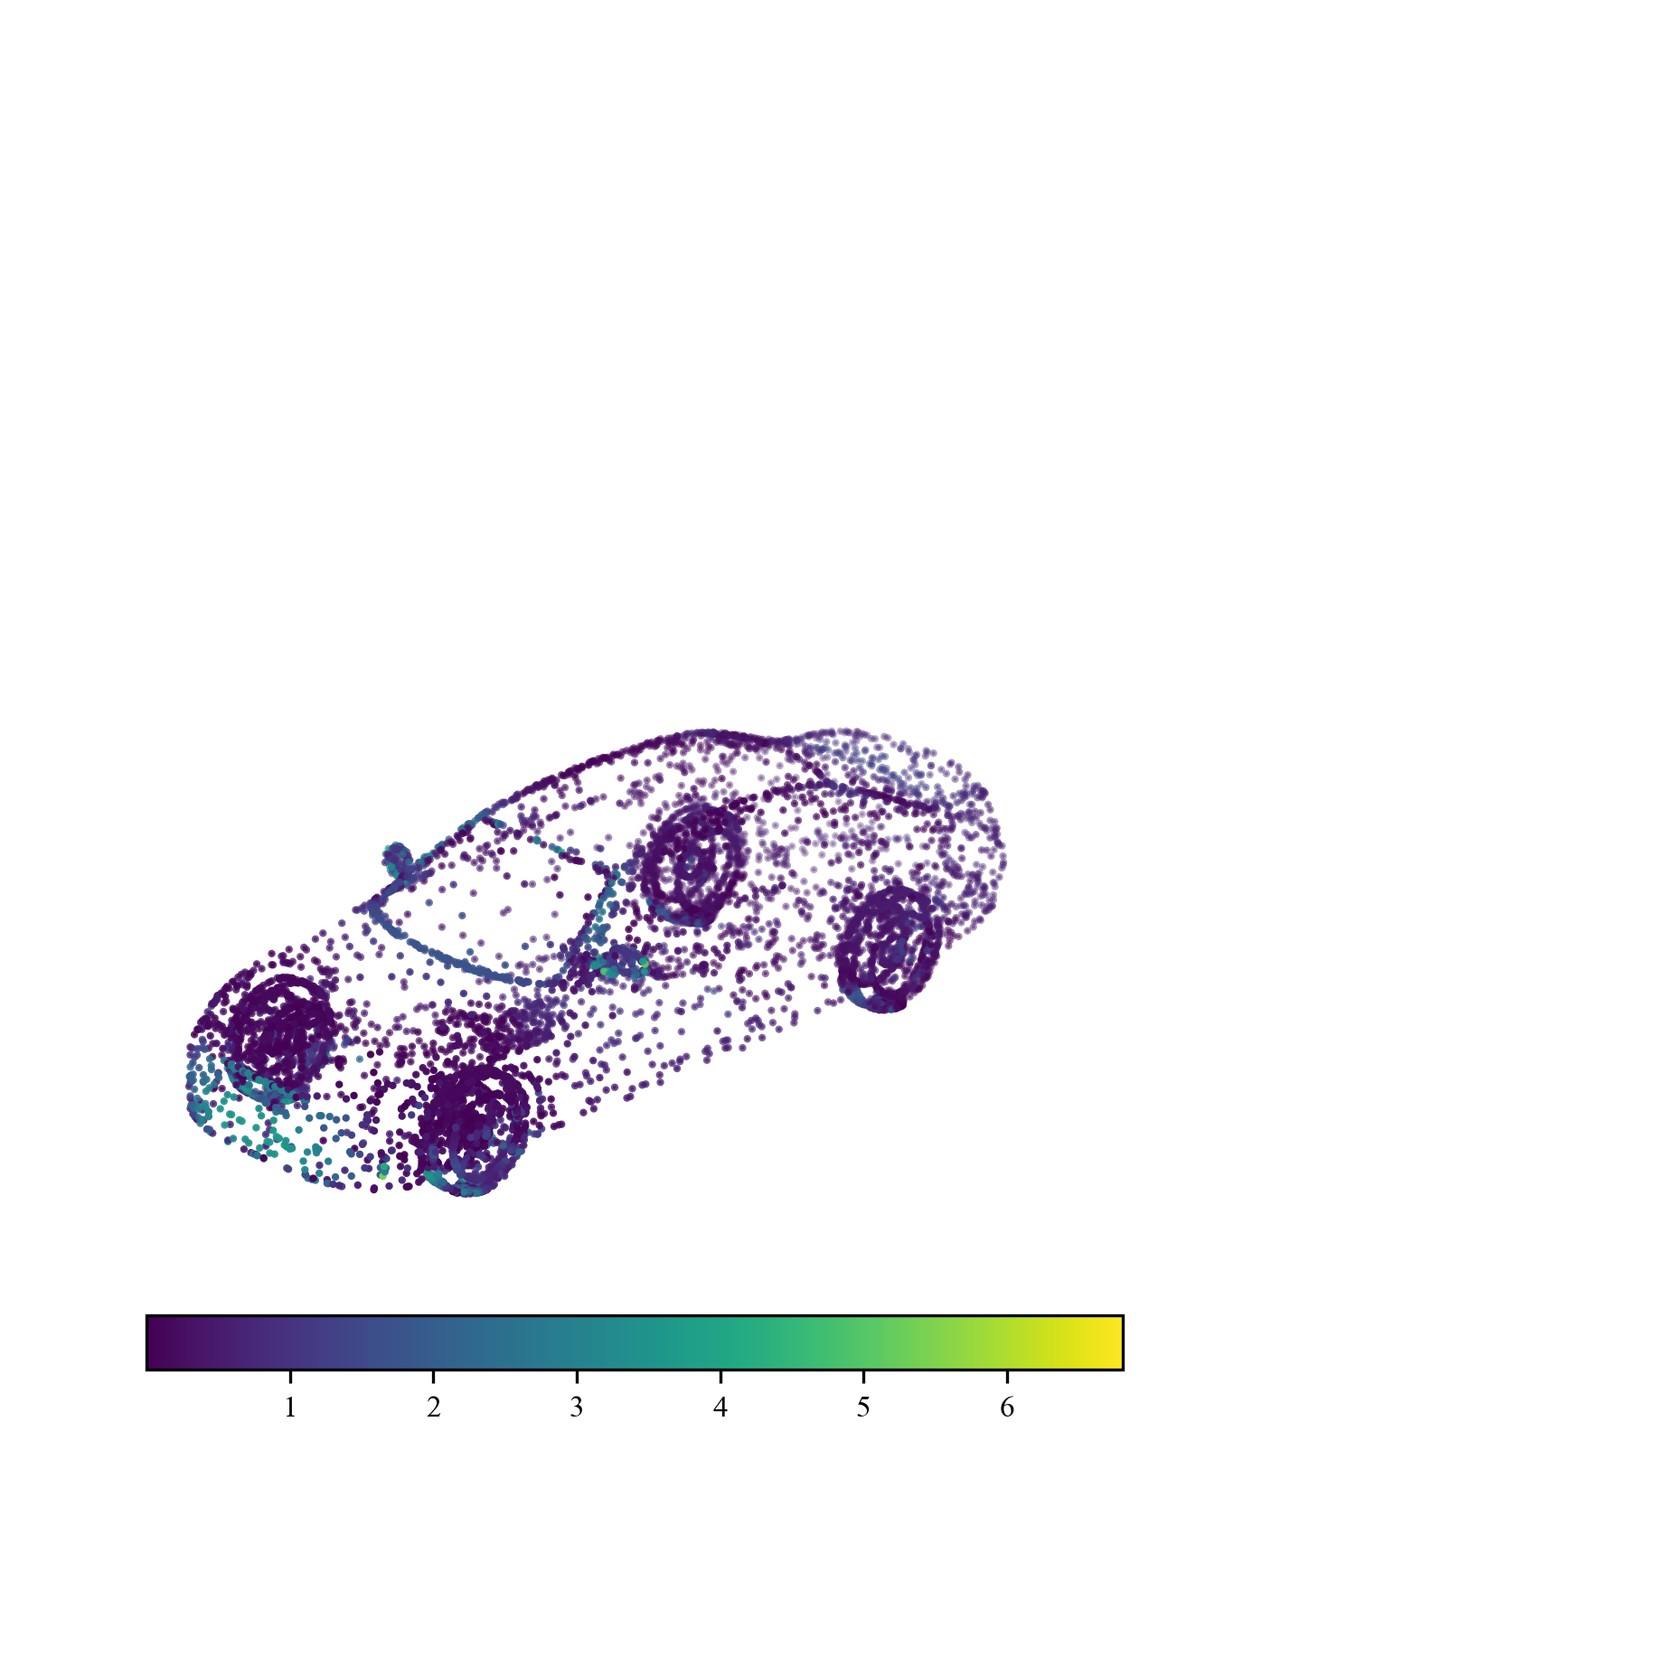
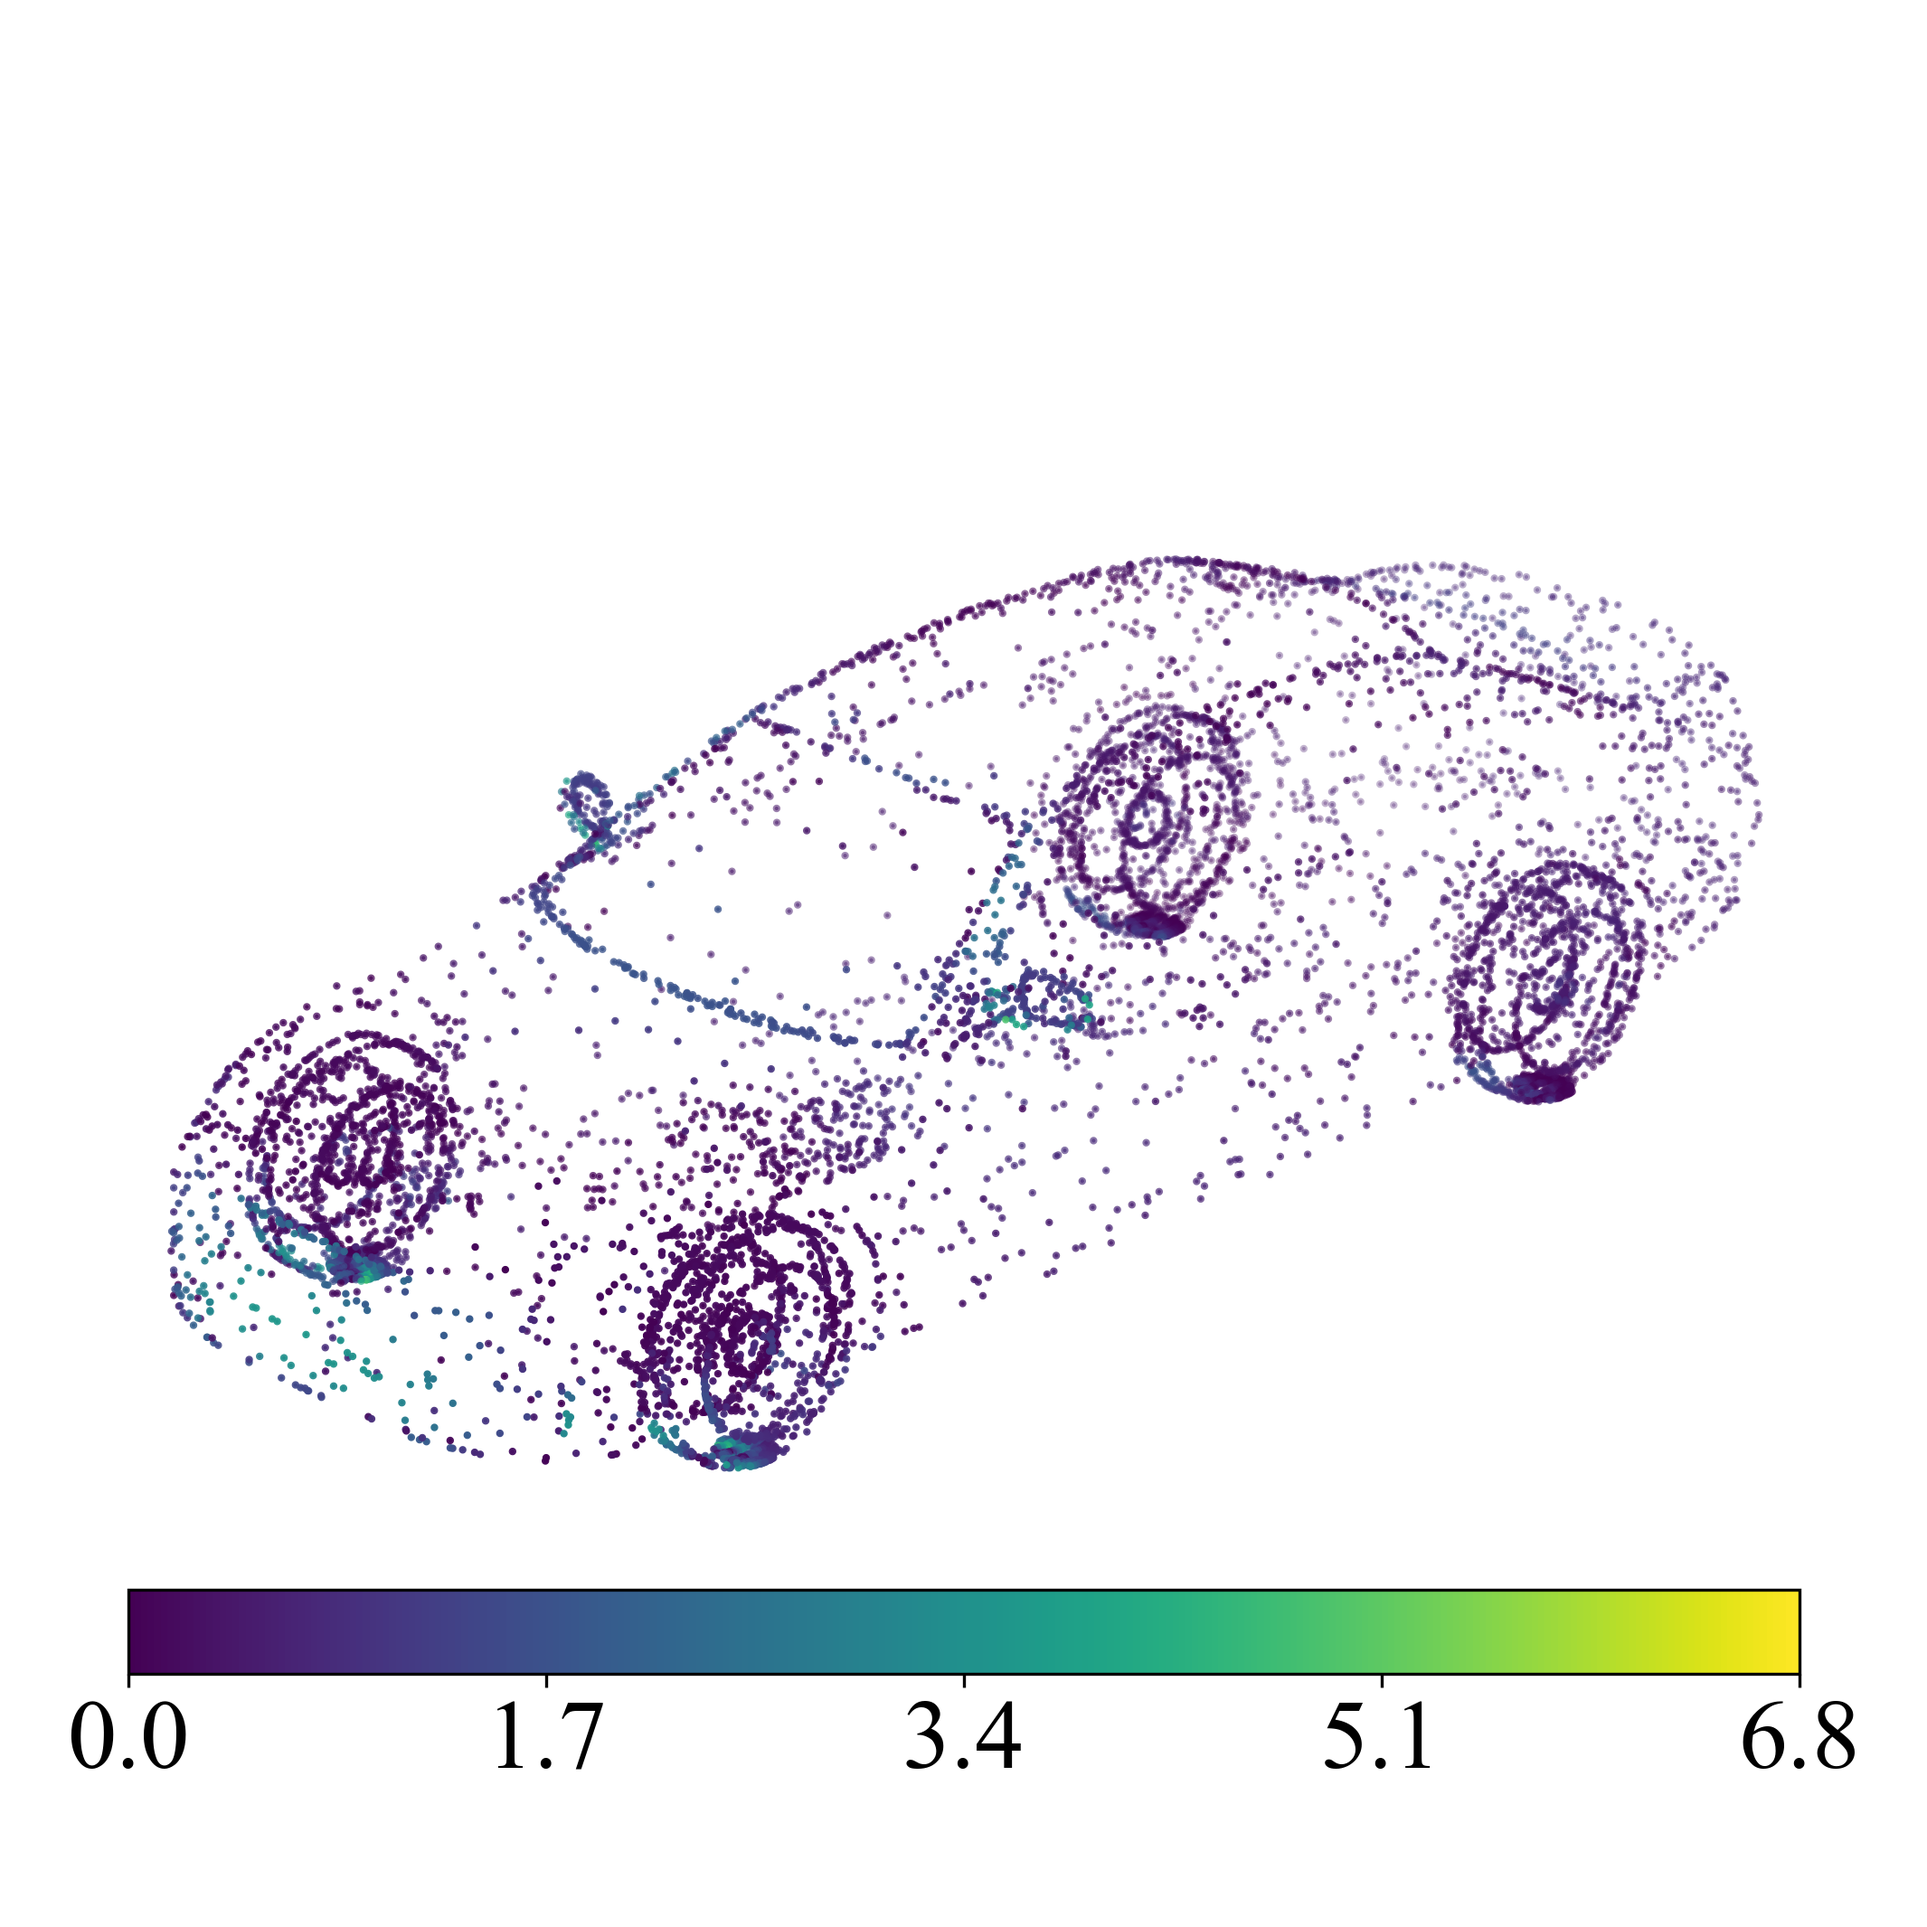
Rope Updare

Changed region(s): [[0.0307, 0.2767, 0.9838, 0.9223], [0.6149, 0.5841, 0.6456, 0.6149]]

diff --git a/RopeTransolver/utils_RPTO.py b/RopeTransolver/utils_RPTO.py
@@ -3,6 +3,7 @@ import matplotlib.pyplot as plt
 from mpl_toolkits.mplot3d import Axes3D  # noqa: F401
 from matplotlib.tri import Triangulation
 from mpl_toolkits.axes_grid1 import make_axes_locatable
+from matplotlib.ticker import FormatStrFormatter
 
 def plot_car_ShapeNet_pressure(
     size,
@@ -206,7 +207,7 @@ def plot_car_ShapeNet_pressure(
     print("Saved focused point cloud images (car-centered) with tight colorbar.")
 
 
-def plot_car_velocity(
+def plot_car_DrivAerML_velocity(
     size,      # 速度场空间位置，用于裁剪和固定坐标轴比例 (N_s,3) 或 (1,N_s,3)
     x,         # y/y_hat 的空间位置 (1,N,3) 或 (N,3)
     y,         # 标量值 (1,N,1) 或 (N,1)
@@ -298,112 +299,16 @@ def plot_car_velocity(
         ax.view_init(elev=elev, azim=azim)
 
         cbar = fig.colorbar(sc, ax=ax, orientation='horizontal', pad=colorbar_pad, fraction=0.05)
+        # ===== 手动设置 5 个刻度 =====
+        if vmin is not None and vmax is not None:
+            ticks = np.linspace(vmin, vmax, 5)
+            cbar.set_ticks(ticks)
+        else:
+            # 对于 error（没有固定范围），用当前数据范围
+            ticks = np.linspace(values.min(), values.max(), 5)
+            cbar.set_ticks(ticks)
         cbar.ax.tick_params(labelsize=colorbar_fontsize)
-        plt.savefig(filename, dpi=300, bbox_inches='tight', pad_inches=0.01)
-        plt.close(fig)
-
-    vmin = y_true.min()
-    vmax = y_true.max()
-    draw(y_true, f"{save_path}_true.png", vmin, vmax)
-    draw(y_pred, f"{save_path}_pred.png", vmin, vmax)
-    draw(abs_err, f"{save_path}_abs_error.png", None, None)
-    print("Saved point cloud images with focus-based axes (car proportion preserved).")
-
-def plot_car_pressure(
-    size,      # 速度场空间位置，用于裁剪和固定坐标轴比例 (N_s,3) 或 (1,N_s,3)
-    x,         # y/y_hat 的空间位置 (1,N,3) 或 (N,3)
-    y,         # 标量值 (1,N,1) 或 (N,1)
-    y_hat,     # 标量值 (1,N,1) 或 (N,1)
-    save_path="fig",
-    figsize=(8,6),
-    point_size=1,
-    colorbar_pad=-0.2,
-    colorbar_fontsize=6,
-    elev=25,
-    azim=-135,
-    focus_method="percentile",  # "percentile" | "voxel" | "surface" | None
-    lower_pct=1.0,
-    upper_pct=99.0,
-    voxel_grid=50,
-    focus_radius_scale=0.5,
-    surface_idx=None,
-    downsample_farfield=None,
-):
-    # ======================
-    # 全局字体：Times New Roman
-    # ======================
-    plt.rcParams["font.family"] = "Times New Roman"
-    plt.rcParams["mathtext.fontset"] = "stix"
-    plt.rcParams["axes.unicode_minus"] = False
-
-    # --- 处理输入维度 ---
-    if size.ndim == 3 and size.shape[0]==1:
-        size = size[0]
-    if x.ndim == 3 and x.shape[0]==1:
-        coords = x[0]
-    else:
-        coords = x
-    if y.ndim == 3 and y.shape[0]==1:
-        y_true = y[0].reshape(-1)
-    else:
-        y_true = y.reshape(-1)
-    if y_hat.ndim == 3 and y_hat.shape[0]==1:
-        y_pred = y_hat[0].reshape(-1)
-    else:
-        y_pred = y_hat.reshape(-1)
-    abs_err = np.abs(y_true - y_pred)
-
-    # --- focus_method 裁剪 ---
-    Npts = size.shape[0]
-    mask_keep = np.ones(Npts, dtype=bool)
-    if focus_method == "percentile":
-        low = np.percentile(size, lower_pct, axis=0)
-        high = np.percentile(size, upper_pct, axis=0)
-        for d in range(3):
-            mask_keep &= (size[:,d]>=low[d]) & (size[:,d]<=high[d])
-    elif focus_method == "voxel":
-        H, edges = np.histogramdd(size, bins=[voxel_grid]*3)
-        max_idx = np.unravel_index(np.argmax(H), H.shape)
-        centers = [0.5*(edges[d][max_idx[d]]+edges[d][max_idx[d]+1]) for d in range(3)]
-        focus_center = np.array(centers)
-        radius = focus_radius_scale * np.max(size.max(axis=0)-size.min(axis=0))
-        mask_keep = np.linalg.norm(size - focus_center[None,:], axis=1)<=radius
-    elif focus_method == "surface":
-        if surface_idx is None:
-            raise ValueError("surface_idx must be provided for surface focus")
-        surface_coords = size[surface_idx]
-        center = surface_coords.mean(axis=0)
-        radius = focus_radius_scale * np.max(surface_coords.max(axis=0)-surface_coords.min(axis=0))
-        mask_keep = np.linalg.norm(size - center[None,:], axis=1)<=radius
-    elif focus_method is None:
-        mask_keep = np.ones(Npts, dtype=bool)
-    else:
-        raise ValueError(f"Unknown focus_method: {focus_method}")
-
-    # 用裁剪后的速度场范围固定坐标轴
-    size_focus = size[mask_keep]
-    xyz_range = size_focus.max(axis=0) - size_focus.min(axis=0)
-    xyz_min = size_focus.min(axis=0)
-    xyz_max = size_focus.max(axis=0)
-
-    # --- 绘图函数 ---
-    def draw(values, filename, vmin=None, vmax=None):
-        fig = plt.figure(figsize=figsize)
-        ax = fig.add_subplot(111, projection='3d')
-
-        sc = ax.scatter(coords[:,0], coords[:,1], coords[:,2],
-                        c=values, s=point_size, vmin=vmin, vmax=vmax)
-        ax.set_axis_off()
-        ax.set_box_aspect(xyz_range)
-        ax.set_xlim(xyz_min[0], xyz_max[0])
-        ax.set_ylim(xyz_min[1], xyz_max[1])
-        ax.set_zlim(xyz_min[2], xyz_max[2])
-        ax.view_init(elev=elev, azim=azim)
-        
-        cbar_ax = fig.add_axes([0.3, 0.25, 0.3, 0.025])  # 可以调整 left, bottom, width, height
-        cbar = fig.colorbar(sc, cax=cbar_ax, orientation='horizontal', pad=colorbar_pad, fraction=0.05)
-        cbar.ax.tick_params(labelsize=colorbar_fontsize)
-        
+        cbar.ax.xaxis.set_major_formatter(FormatStrFormatter('%.1f'))
         plt.savefig(filename, dpi=300, bbox_inches='tight', pad_inches=0.01)
         plt.close(fig)
 

diff --git a/RopeTransolver/plt.py b/RopeTransolver/plt.py
@@ -1,11 +1,11 @@
 import numpy as np
-from utils_RPTO import plot_car_pressure, plot_car_velocity
+from utils_RPTO import plot_car_DrivAerML_velocity 
 import os
 
-size=np.load("/Users/zhangbojun/ML_Turbulent/RopeTransolver/data/velocity/x.npy")
-x = np.load("/Users/zhangbojun/ML_Turbulent/RopeTransolver/data/velocity/x.npy")
-y = np.load("/Users/zhangbojun/ML_Turbulent/RopeTransolver/data/velocity/y.npy")
-y_hat = np.load("/Users/zhangbojun/ML_Turbulent/RopeTransolver/data/velocity/y_hat.npy")
+size=np.load("/Users/zhangbojun/ML_Turbulent/RopeTransolver/data_DrivAerML/pressure/x.npy")
+x = np.load("/Users/zhangbojun/ML_Turbulent/RopeTransolver/data_DrivAerML/pressure/x.npy")
+y = np.load("/Users/zhangbojun/ML_Turbulent/RopeTransolver/data_DrivAerML/pressure/y.npy")
+y_hat = np.load("/Users/zhangbojun/ML_Turbulent/RopeTransolver/data_DrivAerML/pressure/y_hat.npy")
 
 size = size[0]
 x = x[0]       # (10000,3)
@@ -17,13 +17,13 @@ print(x.shape)
 print(y.shape)
 print(y_hat.shape)
 
-figure_path = "/Users/zhangbojun/ML_Turbulent/RopeTransolver/fig/velocity/"
-plot_car_velocity(
+figure_path = "/Users/zhangbojun/ML_Turbulent/RopeTransolver/fig/pressure/"
+plot_car_DrivAerML_velocity(
     size,
     x, y, y_hat,
     save_path=figure_path,
     figsize=(12, 8),
-    colorbar_fontsize=8,
+    colorbar_fontsize=26,
 )
 # 8
 # 12
